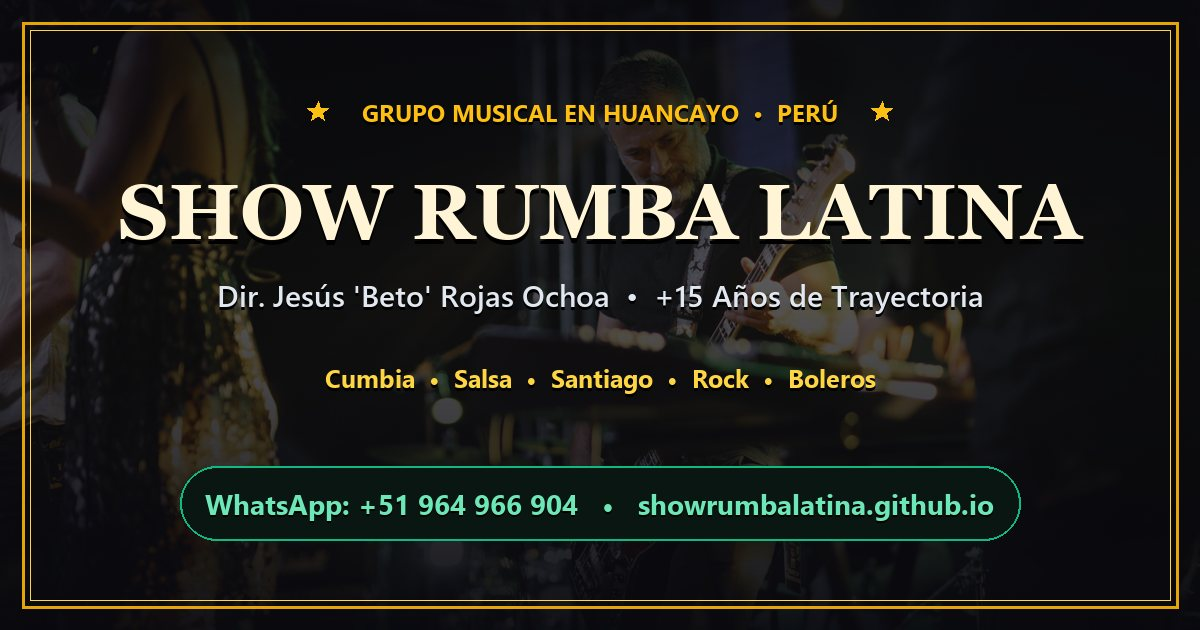
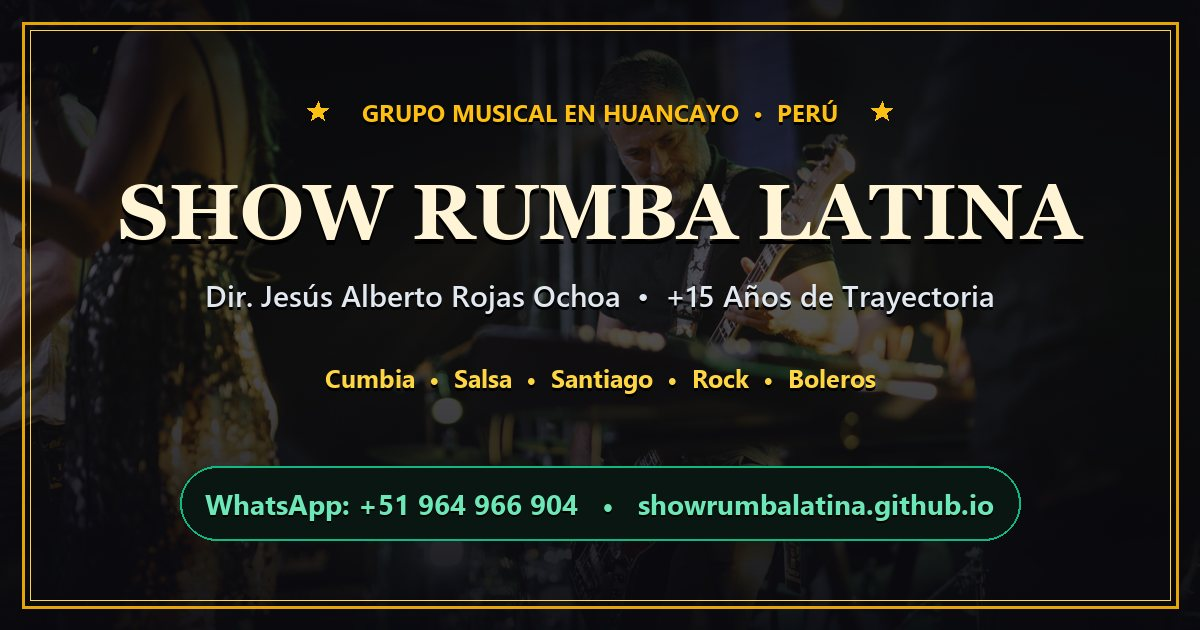
chore(copy): usar nombre completo Jesus Alberto Rojas Ochoa sin apodo entre comillas

Changed region(s): [[0.1542, 0.4524, 0.8325, 0.5127]]

diff --git a/index.html b/index.html
@@ -3,9 +3,9 @@
 <head>
   <meta charset="UTF-8">
   <meta name="viewport" content="width=device-width, initial-scale=1.0">
-  <title>Show Rumba Latina | Orquesta y Grupo Musical en Huancayo — Jesús "Beto" Rojas Ochoa</title>
-  <meta name="description" content="Show Rumba Latina dirigido por Jesús 'Beto' Rojas Ochoa. Orquesta en Huancayo y Valle del Mantaro con +15 años de trayectoria: cumbia, salsa, santiago, rock y boleros. Contratos: +51 964 966 904.">
-  <meta name="keywords" content="Show Rumba Latina, grupo musical Huancayo, orquesta Huancayo, Jesús Rojas Ochoa, Beto Rojas, música para matrimonios Huancayo, santiago huancaíno, cumbia Huancayo, boleros Huancayo">
+  <title>Show Rumba Latina | Orquesta y Grupo Musical en Huancayo — Jesús Alberto Rojas Ochoa</title>
+  <meta name="description" content="Show Rumba Latina dirigido por Jesús Alberto Rojas Ochoa. Orquesta en Huancayo y Valle del Mantaro con +15 años de trayectoria: cumbia, salsa, santiago, rock y boleros. Contratos: +51 964 966 904.">
+  <meta name="keywords" content="Show Rumba Latina, grupo musical Huancayo, orquesta Huancayo, Jesús Alberto Rojas Ochoa, Jesús Rojas Ochoa, música para matrimonios Huancayo, santiago huancaíno, cumbia Huancayo, boleros Huancayo">
   <meta name="author" content="Show Rumba Latina — Jesús Alberto Rojas Ochoa">
   <meta name="theme-color" content="#0a0a0f">
   <meta name="robots" content="index, follow">
@@ -24,7 +24,7 @@
   <meta property="og:type" content="music.group">
   <meta property="og:site_name" content="Show Rumba Latina">
   <meta property="og:title" content="Show Rumba Latina | Grupo Musical Huancayo">
-  <meta property="og:description" content="Música 100% variada para matrimonios, 15 años y fiestas patronales: cumbia, salsa, santiago, rock y boleros. Dir. Jesús 'Beto' Rojas Ochoa. Contratos: +51 964 966 904.">
+  <meta property="og:description" content="Música 100% variada para matrimonios, 15 años y fiestas patronales: cumbia, salsa, santiago, rock y boleros. Dir. Jesús Alberto Rojas Ochoa. Contratos: +51 964 966 904.">
   <meta property="og:url" content="https://showrumbalatina.github.io/">
   <meta property="og:image" content="https://showrumbalatina.github.io/images/og-image.jpg">
   <meta property="og:image:secure_url" content="https://showrumbalatina.github.io/images/og-image.jpg">
@@ -50,11 +50,11 @@
     "url": "https://showrumbalatina.github.io/",
     "image": "https://showrumbalatina.github.io/images/og-image.jpg",
     "foundingDate": "2011",
-    "description": "Agrupación musical de Huancayo dirigida por Jesús Alberto 'Beto' Rojas Ochoa con repertorio 100% variado en vivo: cumbias de antología y actuales, salsa, merengue, santiago, huaynos, rock latino y boleros.",
+    "description": "Agrupación musical de Huancayo dirigida por Jesús Alberto Rojas Ochoa con repertorio 100% variado en vivo: cumbias de antología y actuales, salsa, merengue, santiago, huaynos, rock latino y boleros.",
     "founder": {
       "@type": "Person",
       "name": "Jesús Alberto Rojas Ochoa",
-      "alternateName": "Beto Rojas"
+      "alternateName": "Jesús Rojas Ochoa"
     },
     "telephone": "+51964966904",
     "address": {
@@ -142,7 +142,7 @@
         "name": "¿Cómo se solicita una cotización exacta y se formaliza el contrato?",
         "acceptedAnswer": {
           "@type": "Answer",
-          "text": "Puedes usar el cotizador interactivo de esta página para enviar los detalles directamente por WhatsApp al +51 964 966 904 (Jesús 'Beto' Rojas Ochoa). Con la fecha, lugar y tipo de evento te confirmamos disponibilidad, presupuesto exacto y condiciones de reserva."
+          "text": "Puedes usar el cotizador interactivo de esta página para enviar los detalles directamente por WhatsApp al +51 964 966 904 (Jesús Alberto Rojas Ochoa). Con la fecha, lugar y tipo de evento te confirmamos disponibilidad, presupuesto exacto y condiciones de reserva."
         }
       }
     ]
@@ -288,7 +288,7 @@
 
           <p class="text-base sm:text-xl text-slate-200 max-w-2xl mb-9 leading-relaxed font-light">
             Cumbias de antología y del momento, salsa explosiva, santiago huancaíno, rock latino y boleros del recuerdo.
-            Bajo la dirección de <strong class="text-white font-semibold">Jesús Alberto &ldquo;Beto&rdquo; Rojas Ochoa</strong>, llevamos música en vivo, animación y sonido profesional a tu celebración.
+            Bajo la dirección de <strong class="text-white font-semibold">Jesús Alberto Rojas Ochoa</strong>, llevamos música en vivo, animación y sonido profesional a tu celebración.
           </p>
 
           <div class="flex flex-wrap items-center gap-3.5 sm:gap-4">
@@ -362,7 +362,7 @@
               Voces Invitadas
             </button>
             <button type="button" data-video-cat="beto" aria-pressed="false" class="px-4 py-2 rounded-full text-xs font-bold border bg-slate-900 text-slate-300 border-slate-800 hover:border-gold-500/40 transition-colors">
-              Beto Rojas &amp; Boleros
+              Jesús Rojas &amp; Boleros
             </button>
           </div>
         </div>
@@ -537,7 +537,7 @@
                   <span class="inline-block px-3 py-1 rounded-full bg-emerald-500/15 border border-emerald-500/35 text-emerald-300 text-xs font-bold uppercase tracking-wider">Voz Principal &amp; Gala</span>
                   <h3 class="text-2xl sm:text-3xl font-extrabold text-white font-display">Boleros, Vals y Clásicos del Recuerdo</h3>
                   <p class="text-slate-300 text-sm sm:text-base leading-relaxed">
-                    Interpretaciones románticas en la voz de Jesús &ldquo;Beto&rdquo; Rojas Ochoa, pensadas para ceremonias, brindis, cenas de gala, serenatas y homenajes familiares.
+                    Interpretaciones románticas en la voz de Jesús Alberto Rojas Ochoa, pensadas para ceremonias, brindis, cenas de gala, serenatas y homenajes familiares.
                   </p>
                   <p class="text-xs text-slate-400 pt-1"><strong class="text-gold-400">Ideal para:</strong> Serenatas, cenas, bodas de plata/oro y protocolo.</p>
                 </div>
@@ -574,7 +574,7 @@
       </div>
     </section>
 
-    <!-- 5. Sobre Nosotros / Dirección de Jesús "Beto" Rojas Ochoa -->
+    <!-- 5. Sobre Nosotros / Dirección de Jesús Alberto Rojas Ochoa -->
     <section id="nosotros" class="py-24">
       <div class="max-w-7xl mx-auto px-4 sm:px-6 lg:px-8">
         <div class="reveal-item glass-card rounded-3xl p-8 sm:p-12 lg:p-14 border border-gold-500/20">
@@ -584,7 +584,7 @@
                 Dirección Artística &amp; Trayectoria
               </span>
               <h2 class="text-3xl sm:text-4xl font-extrabold text-white font-display">
-                Jesús Alberto &ldquo;Beto&rdquo; Rojas Ochoa: <span class="gold-gradient-text">Calidad Sonora y Cumplimiento</span>
+                Jesús Alberto Rojas Ochoa: <span class="gold-gradient-text">Calidad Sonora y Cumplimiento</span>
               </h2>
               <p class="text-slate-300 text-sm sm:text-base leading-relaxed">
                 Con más de 15 años de trayectoria musical documentada desde 2011 en Huancayo, el Grupo Musical <strong class="text-white">Show Rumba Latina</strong> combina experiencia escénica, versatilidad de géneros y puntualidad absoluta.
@@ -730,7 +730,7 @@
           <details class="faq-item">
             <summary class="faq-summary">¿Cómo se solicita una cotización exacta y se formaliza el contrato?</summary>
             <div class="px-5 pb-5 pt-1 text-slate-300 text-sm leading-relaxed">
-              Puedes usar el cotizador interactivo de esta página para enviar los detalles directamente por WhatsApp al +51 964 966 904 (Jesús &ldquo;Beto&rdquo; Rojas Ochoa). Con la fecha, lugar y tipo de evento te confirmamos disponibilidad, presupuesto exacto y condiciones de reserva.
+              Puedes usar el cotizador interactivo de esta página para enviar los detalles directamente por WhatsApp al +51 964 966 904 (Jesús Alberto Rojas Ochoa). Con la fecha, lugar y tipo de evento te confirmamos disponibilidad, presupuesto exacto y condiciones de reserva.
             </div>
           </details>
         </div>
@@ -746,7 +746,7 @@
             Cotiza tu Fecha en <span class="gold-gradient-text">WhatsApp</span>
           </h2>
           <p class="text-slate-300 text-sm sm:text-base mt-3">
-            Arma tu solicitud en segundos con formato, ciudad y géneros favoritos. Se envía directo al celular oficial de <strong class="text-white">Jesús &ldquo;Beto&rdquo; Rojas Ochoa</strong>.
+            Arma tu solicitud en segundos con formato, ciudad y géneros favoritos. Se envía directo al celular oficial de <strong class="text-white">Jesús Alberto Rojas Ochoa</strong>.
           </p>
         </div>
 
@@ -1011,7 +1011,7 @@
           <img src="./favicon.svg" alt="Show Rumba Latina" width="32" height="32" loading="lazy" class="w-8 h-8">
           <div>
             <p class="text-white font-bold tracking-tight">SHOW RUMBA LATINA</p>
-            <p class="text-xs text-slate-500">Grupo Musical Huancayo • Dir. Jesús &ldquo;Beto&rdquo; Rojas Ochoa</p>
+            <p class="text-xs text-slate-500">Grupo Musical Huancayo • Dir. Jesús Alberto Rojas Ochoa</p>
           </div>
         </div>
 

diff --git a/src/modules/quote-form.js b/src/modules/quote-form.js
@@ -26,7 +26,7 @@ function createVCardBlob() {
   const vcard = [
     'BEGIN:VCARD',
     'VERSION:3.0',
-    'FN:Show Rumba Latina - Jesús "Beto" Rojas Ochoa',
+    'FN:Show Rumba Latina - Jesús Alberto Rojas Ochoa',
     'N:Rojas Ochoa;Jesús Alberto;;;',
     'ORG:Show Rumba Latina (Grupo Musical Huancayo)',
     'TITLE:Director General y Voz Principal',
@@ -44,7 +44,7 @@ export function triggerVCardDownload() {
   const url = URL.createObjectURL(blob);
   const a = document.createElement('a');
   a.href = url;
-  a.download = 'Show_Rumba_Latina_Beto_Rojas.vcf';
+  a.download = 'Show_Rumba_Latina_Jesus_Alberto_Rojas_Ochoa.vcf';
   document.body.appendChild(a);
   a.click();
   a.remove();
@@ -235,7 +235,7 @@ export function initQuoteForm(announcer) {
     const notes = eventNotes?.value?.trim();
     const selectedGenres = genreChecks.filter((c) => c.checked).map((c) => c.value);
 
-    let msg = `Hola Show Rumba Latina (Jesús "Beto" Rojas Ochoa),\n`;
+    let msg = `Hola Show Rumba Latina (Jesús Alberto Rojas Ochoa),\n`;
     msg += `Mi nombre es ${name}. Solicito cotización y disponibilidad para mi evento:\n\n`;
     msg += `• Tipo de Evento: ${type}\n`;
     msg += `• Formato Musical: ${format}\n`;

diff --git a/scripts/process-assets.py b/scripts/process-assets.py
@@ -117,7 +117,7 @@ def generate_og_image(hero_raw: Image.Image):
     draw_star(width // 2 - 282, 112, outer_r=11, inner_r=4.5)
     draw_star(width // 2 + 282, 112, outer_r=11, inner_r=4.5)
     text_shadow((width // 2, 212), "SHOW RUMBA LATINA", font_title, (255, 245, 214, 255), shadow_offset=(0, 5))
-    text_shadow((width // 2, 294), "Dir. Jesús 'Beto' Rojas Ochoa  •  +15 Años de Trayectoria", font_sub, (226, 232, 240, 255))
+    text_shadow((width // 2, 294), "Dir. Jesús Alberto Rojas Ochoa  •  +15 Años de Trayectoria", font_sub, (226, 232, 240, 255))
     text_shadow((width // 2, 378), "Cumbia  •  Salsa  •  Santiago  •  Rock  •  Boleros", font_genres, (254, 213, 66, 255))
 
     pill_w, pill_h = 840, 74

diff --git a/README.md b/README.md
@@ -1,13 +1,13 @@
 # Show Rumba Latina — Sitio Web Oficial (v2.0)
 
-Portal web de alto alcance, conversión y difusión audiovisual para la agrupación musical **Show Rumba Latina** (Huancayo, Perú), bajo la dirección de **Jesús Alberto "Beto" Rojas Ochoa**.
+Portal web de alto alcance, conversión y difusión audiovisual para la agrupación musical **Show Rumba Latina** (Huancayo, Perú), bajo la dirección de **Jesús Alberto Rojas Ochoa**.
 
 👉 **Sitio en vivo:** [https://showrumbalatina.github.io/](https://showrumbalatina.github.io/)
 
 ---
 
 ## 🎵 Información Verificada de la Agrupación
-* **Director General y Voz Principal:** Jesús Alberto "Beto" Rojas Ochoa.
+* **Director General y Voz Principal:** Jesús Alberto Rojas Ochoa.
 * **Trayectoria Documentada:** +15 años (registros verificados en YouTube desde abril de 2011).
 * **Sede y Cobertura:** Huancayo Metropolitano, Valle del Mantaro (El Tambo, Chilca, Jauja, Concepción, Chupaca), Región Junín / Selva Central y giras a nivel nacional.
 * **Contacto Directo / WhatsApp:** `+51 964 966 904`.

diff --git a/public/images/README.md b/public/images/README.md
@@ -3,7 +3,7 @@
 Este directorio contiene las imágenes optimizadas para producción (`AVIF`, `WebP`, `JPG`), el banner para redes sociales (`og-image.jpg`, < 300 KB para WhatsApp) y los códigos QR imprimibles (`qr-showrumbalatina.svg` / `.png`).
 
 ## Cómo reemplazar las imágenes atmosféricas por fotos reales de la orquesta
-Si Jesús "Beto" Rojas Ochoa entrega fotografías oficiales de presentaciones en vivo:
+Si Jesús Alberto Rojas Ochoa entrega fotografías oficiales de presentaciones en vivo:
 
 1. Coloca tus fotos crudas en una carpeta temporal y ejecútalas con Pillow o reemplaza directamente manteniendo exactamente los nombres y dimensiones:
    - **Portada Hero (`1600×900` y `800×450`):**
